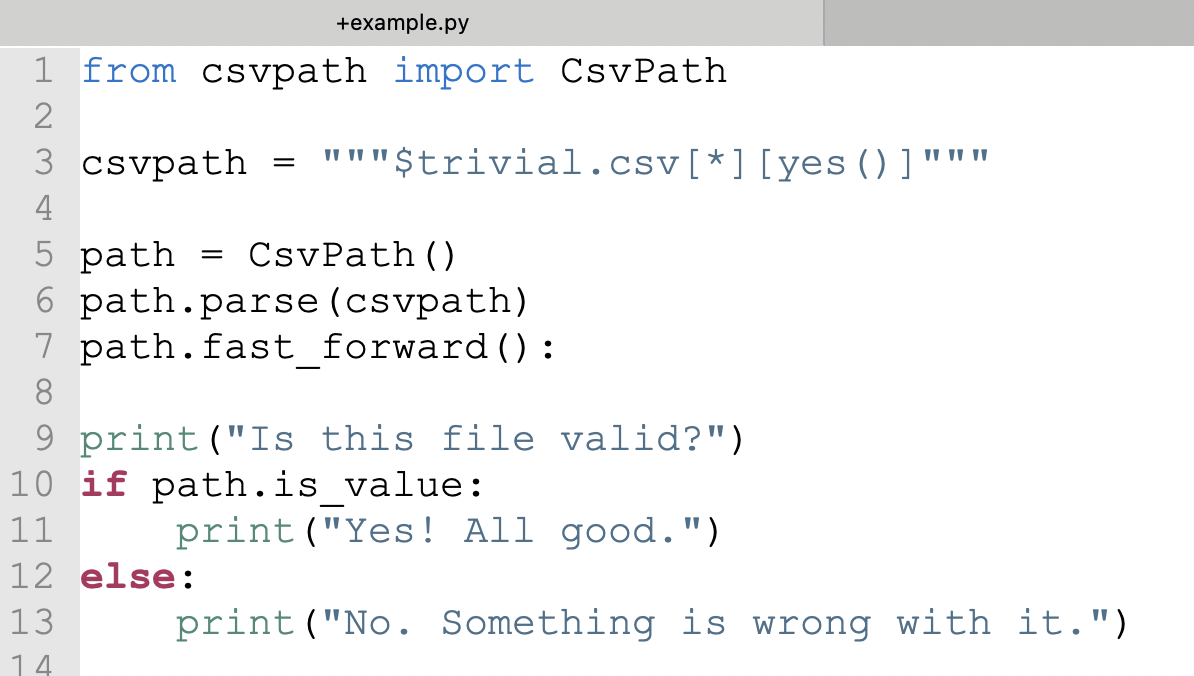
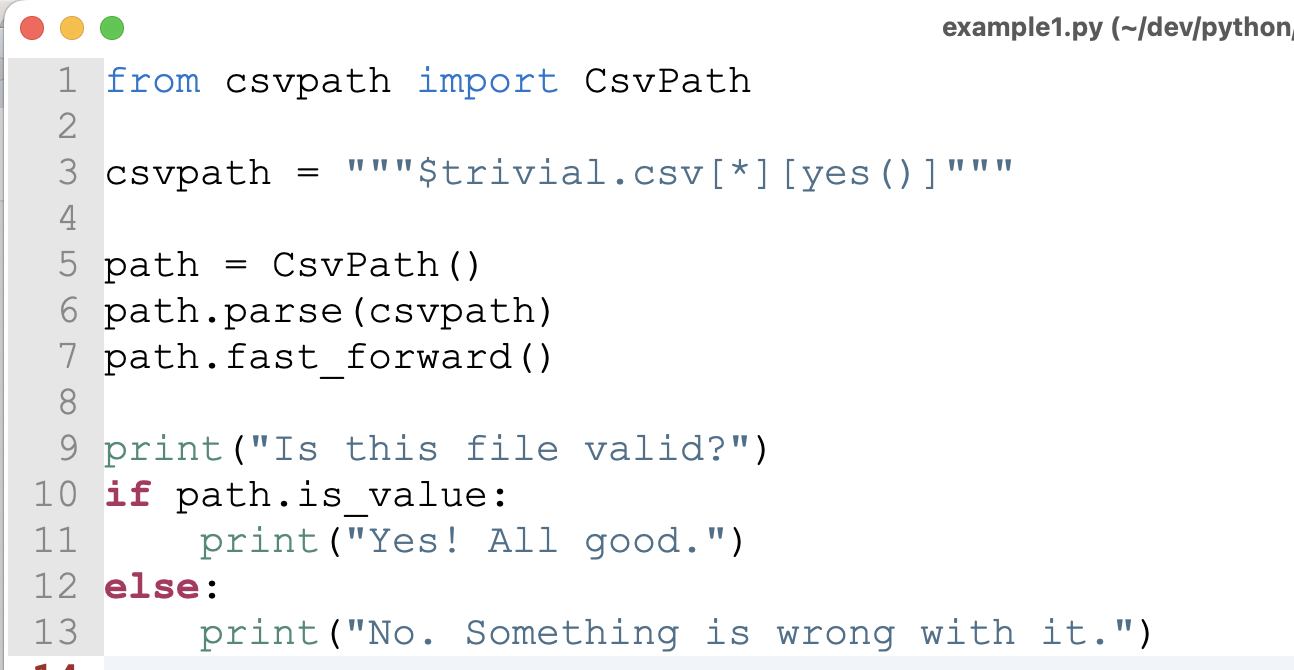
GITBOOK-61: No subject

Changed region(s): [[0.0, 0.0, 1.0, 1.0], [0.7747, 0.209, 0.8367, 0.2388]]

diff --git a/getting-started/quickstart.md b/getting-started/quickstart.md
@@ -28,6 +28,10 @@ Create a script file and do the import:&#x20;
 
 <figure><img src="../.gitbook/assets/import.png" alt="" width="375"><figcaption><p>Add CsvPath to your requirements.txt or dependency manger first, of course!</p></figcaption></figure>
 
+```python
+from csvpath import CsvPath
+```
+
 Create a test CSV file. Save it as trivial.csv or whatever name you like.
 
 <figure><img src="../.gitbook/assets/csv.png" alt="" width="359"><figcaption></figcaption></figure>
@@ -36,7 +40,7 @@ Create a test CSV file. Save it as trivial.csv or whatever name you like.
 
 Make a csvpath. Also a trivial one, just to keep it simple.
 
-<figure><img src="../.gitbook/assets/trivial-csvpath.png" alt="" width="375"><figcaption></figcaption></figure>
+<figure><img src="../.gitbook/assets/trivial-csvpath.png" alt="" width="563"><figcaption></figcaption></figure>
 
 ```python
 csvpath = """$trivial.csv[*][yes()]"""
@@ -46,7 +50,7 @@ This path says: open trivial.csv, scan all the lines, match every one of them.
 
 Next, run the csvpath against our CSV file.
 
-<figure><img src="../.gitbook/assets/first_script.png" alt="" width="375"><figcaption></figcaption></figure>
+<figure><img src="../.gitbook/assets/first_script (1).png" alt="" width="563"><figcaption></figcaption></figure>
 
 {% code lineNumbers="true" %}
 ```python
@@ -56,10 +60,10 @@ csvpath = """$trivial.csv[*][yes()]"""
 
 path = CsvPath()
 path.parse(csvpath)
-path.fast_forward():
+path.fast_forward()
 
 print("Is this file valid?")
-if path.is_value:
+if path.is_valid:
     print("Yes! All good.")
 else:
     print("No. Something is wrong with it.")
@@ -78,6 +82,6 @@ What does this script do?
 
 When you run your script you should see something close to this:
 
-<figure><img src="../.gitbook/assets/getting-started-script-run.png" alt="" width="375"><figcaption></figcaption></figure>
+<figure><img src="../.gitbook/assets/result.png" alt="" width="486"><figcaption></figcaption></figure>
 
 Now, I know that is truly unimpressive! Still, go with it. Small steps! You are now ready to dig in and see what CsvPath can really do.&#x20;
